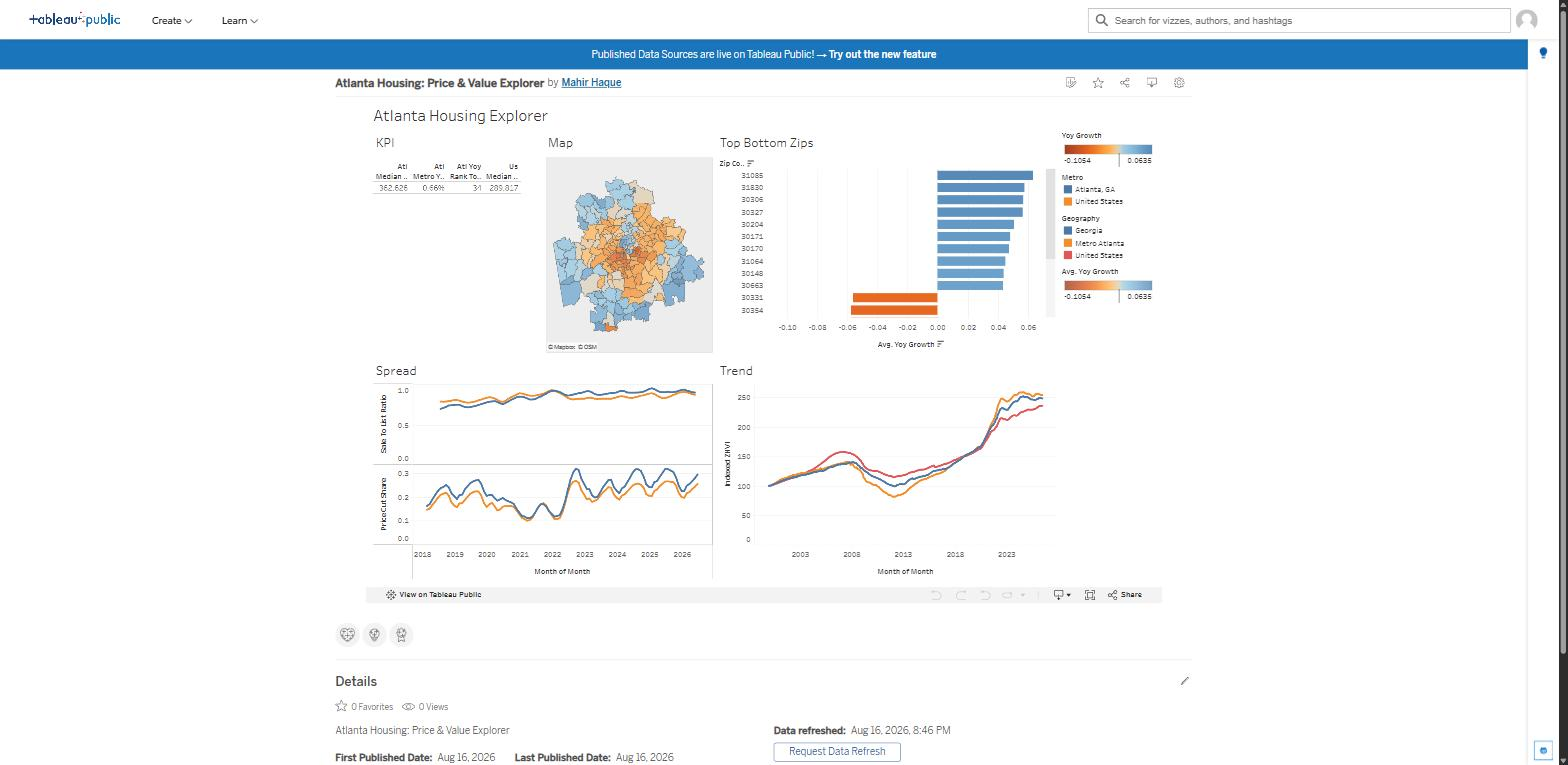
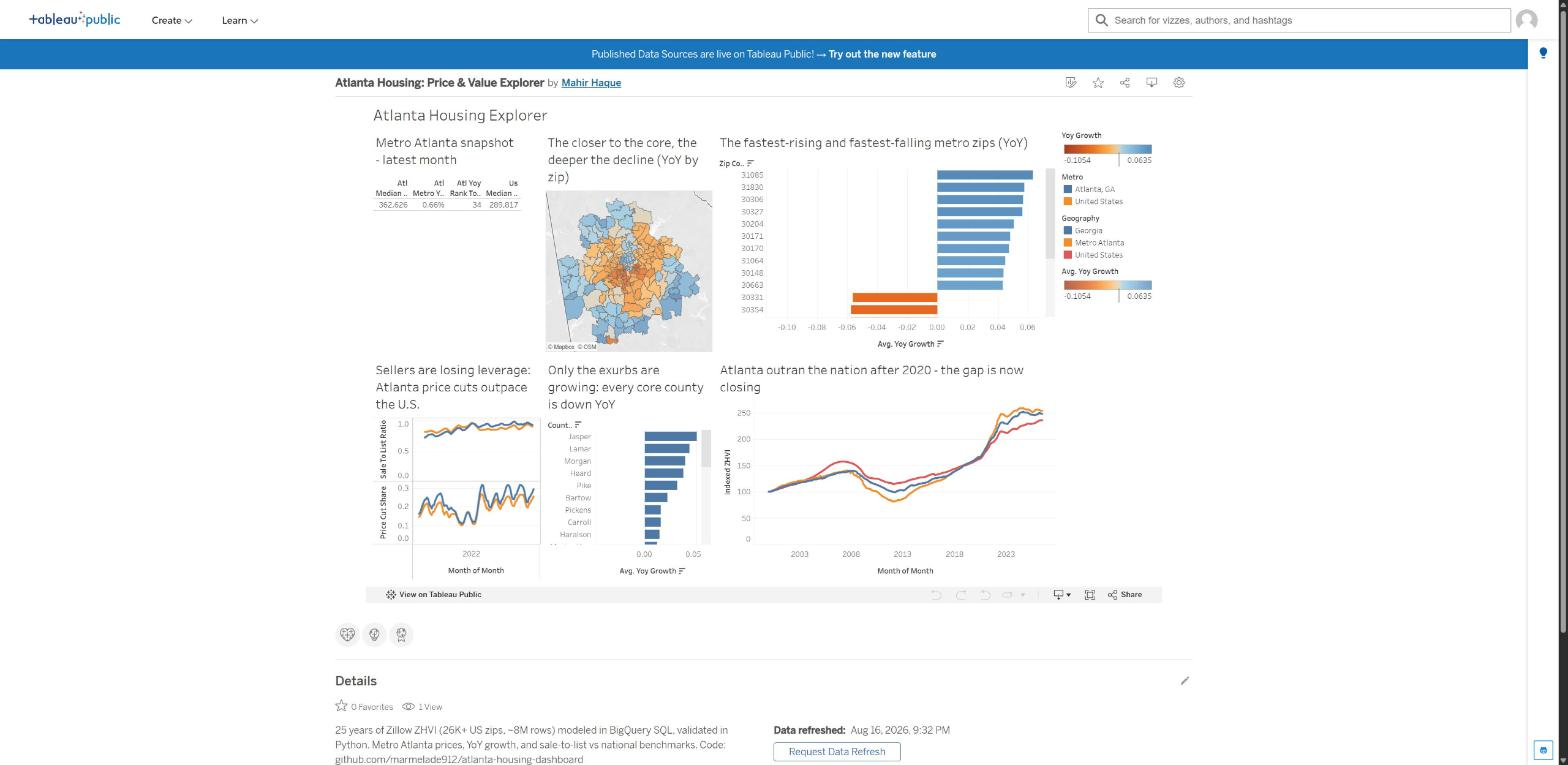
Add county lens: Counties ranking view, county tooltips, finding titles
New Counties view ranks metro-ATL counties by YoY (only exurbs growing;
Gwinnett -2.4%, 5.4% off its Sep 2024 peak). County added to map
tooltips; every view retitled to state its finding. README carries the
county-level story.

diff --git a/README.md b/README.md
@@ -9,10 +9,12 @@ focused on metro Atlanta against national benchmarks.
 
 [![Dashboard](docs/dashboard.jpg)](https://public.tableau.com/app/profile/mahir.haque/viz/AtlantaHousingPriceValueExplorer/AtlantaHousingExplorer_1)
 
-**Headline finding (Jul 2026):** metro Atlanta's median zip ZHVI (~$363K) still sits well
-above the U.S. (~$290K), but the market has flipped — the urban core shows negative YoY
-growth while the outer ring stays positive, Atlanta ranks mid-30s among the top-50 metros
-for YoY growth, and its price-cut share runs above the national rate.
+**Headline findings (Jul 2026):** metro Atlanta's median zip ZHVI (~$363K) still sits well
+above the U.S. (~$290K), but the market has flipped. Every core county is down year-over-year
+— DeKalb −1.5%, Fulton −1.9%, Cobb −2.0%, **Gwinnett −2.4%** (median $408K, 5.4% off its
+Sep 2024 peak of $431K), Clayton −4.4% — while only the exurban ring still grows (Pike +3.1%,
+Bartow +2.2%, Carroll +1.5%). Atlanta ranks 34th of the top-50 metros for YoY growth and its
+price-cut share runs above the national rate: a seller's market unwinding from the inside out.
 
 ## Architecture
 
@@ -77,13 +79,15 @@ Zillow download, not the extract, so it tests the whole pipeline.
 ## Dashboard
 
 Built and published entirely in **Tableau Public web authoring** (browser-based) at
-1300×800: a KPI row (ATL median ZHVI, YoY %, top-50 metro rank, US median, latest month
-auto-selected on open), a metro-Atlanta zip choropleth colored by YoY growth (diverging,
-centered at 0), top/bottom-10 zips by YoY (diverging bars via a RANK() table-calc filter),
-the sale-to-list ratio + price-cut share panes (ATL vs US, shared month axis — two stacked
-charts instead of a dual axis), and the indexed ZHVI trend (ATL vs GA vs US, table
-calculation `SUM([zhvi]) / LOOKUP(SUM([zhvi]), FIRST()) * 100` so all three geographies
-share one honest axis).
+1300×800, six views with finding-style titles: a KPI row (ATL median ZHVI, YoY %, top-50
+metro rank, US median, latest month auto-selected on open), a metro-Atlanta zip choropleth
+colored by YoY growth (diverging, centered at 0, county in tooltips), a **county ranking**
+("Only the exurbs are growing") that answers "which county grew fastest?" at a glance,
+top/bottom-10 zips by YoY (diverging bars via a RANK() table-calc filter), the sale-to-list
+ratio + price-cut share panes (ATL vs US, shared month axis — two stacked charts instead of
+a dual axis), and the indexed ZHVI trend (ATL vs GA vs US, table calculation
+`SUM([zhvi]) / LOOKUP(SUM([zhvi]), FIRST()) * 100` so all three geographies share one
+honest axis).
 
 Tableau-side extracts are slimmed/pre-shaped versions of the BigQuery marts
 (`zip_growth_ga_tableau.csv`, `benchmark_long.csv`, `metro_benchmark.csv`,
